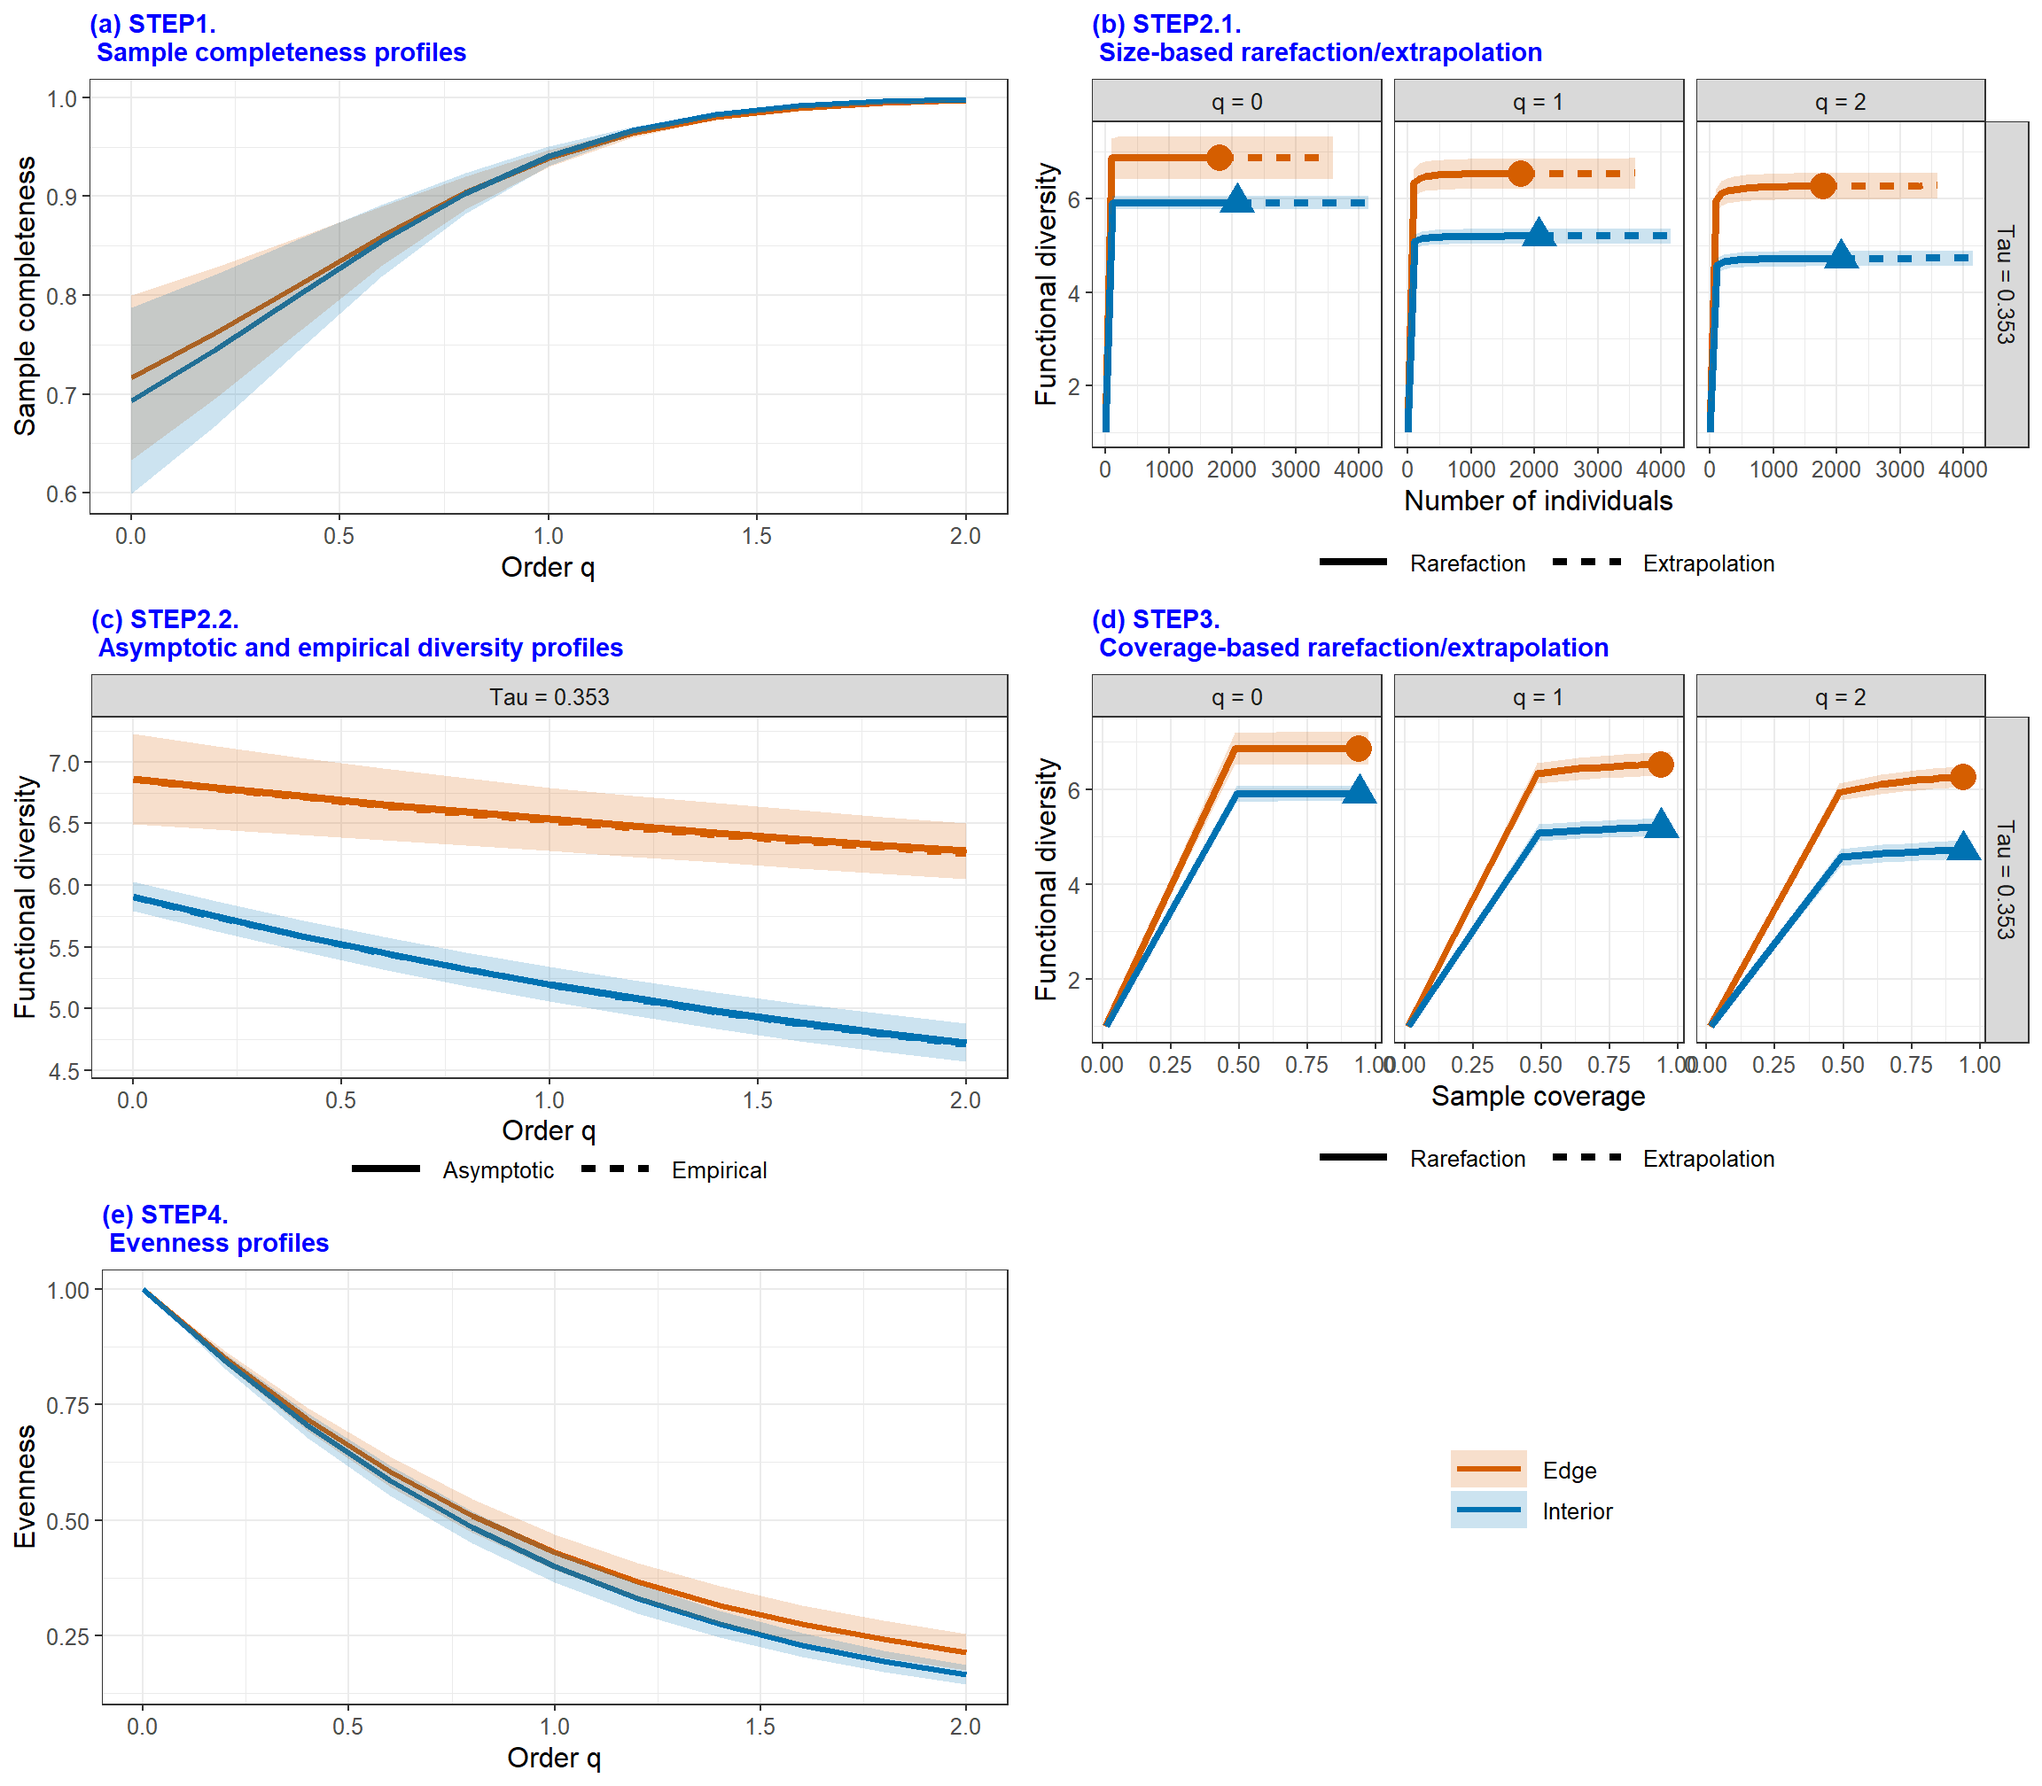
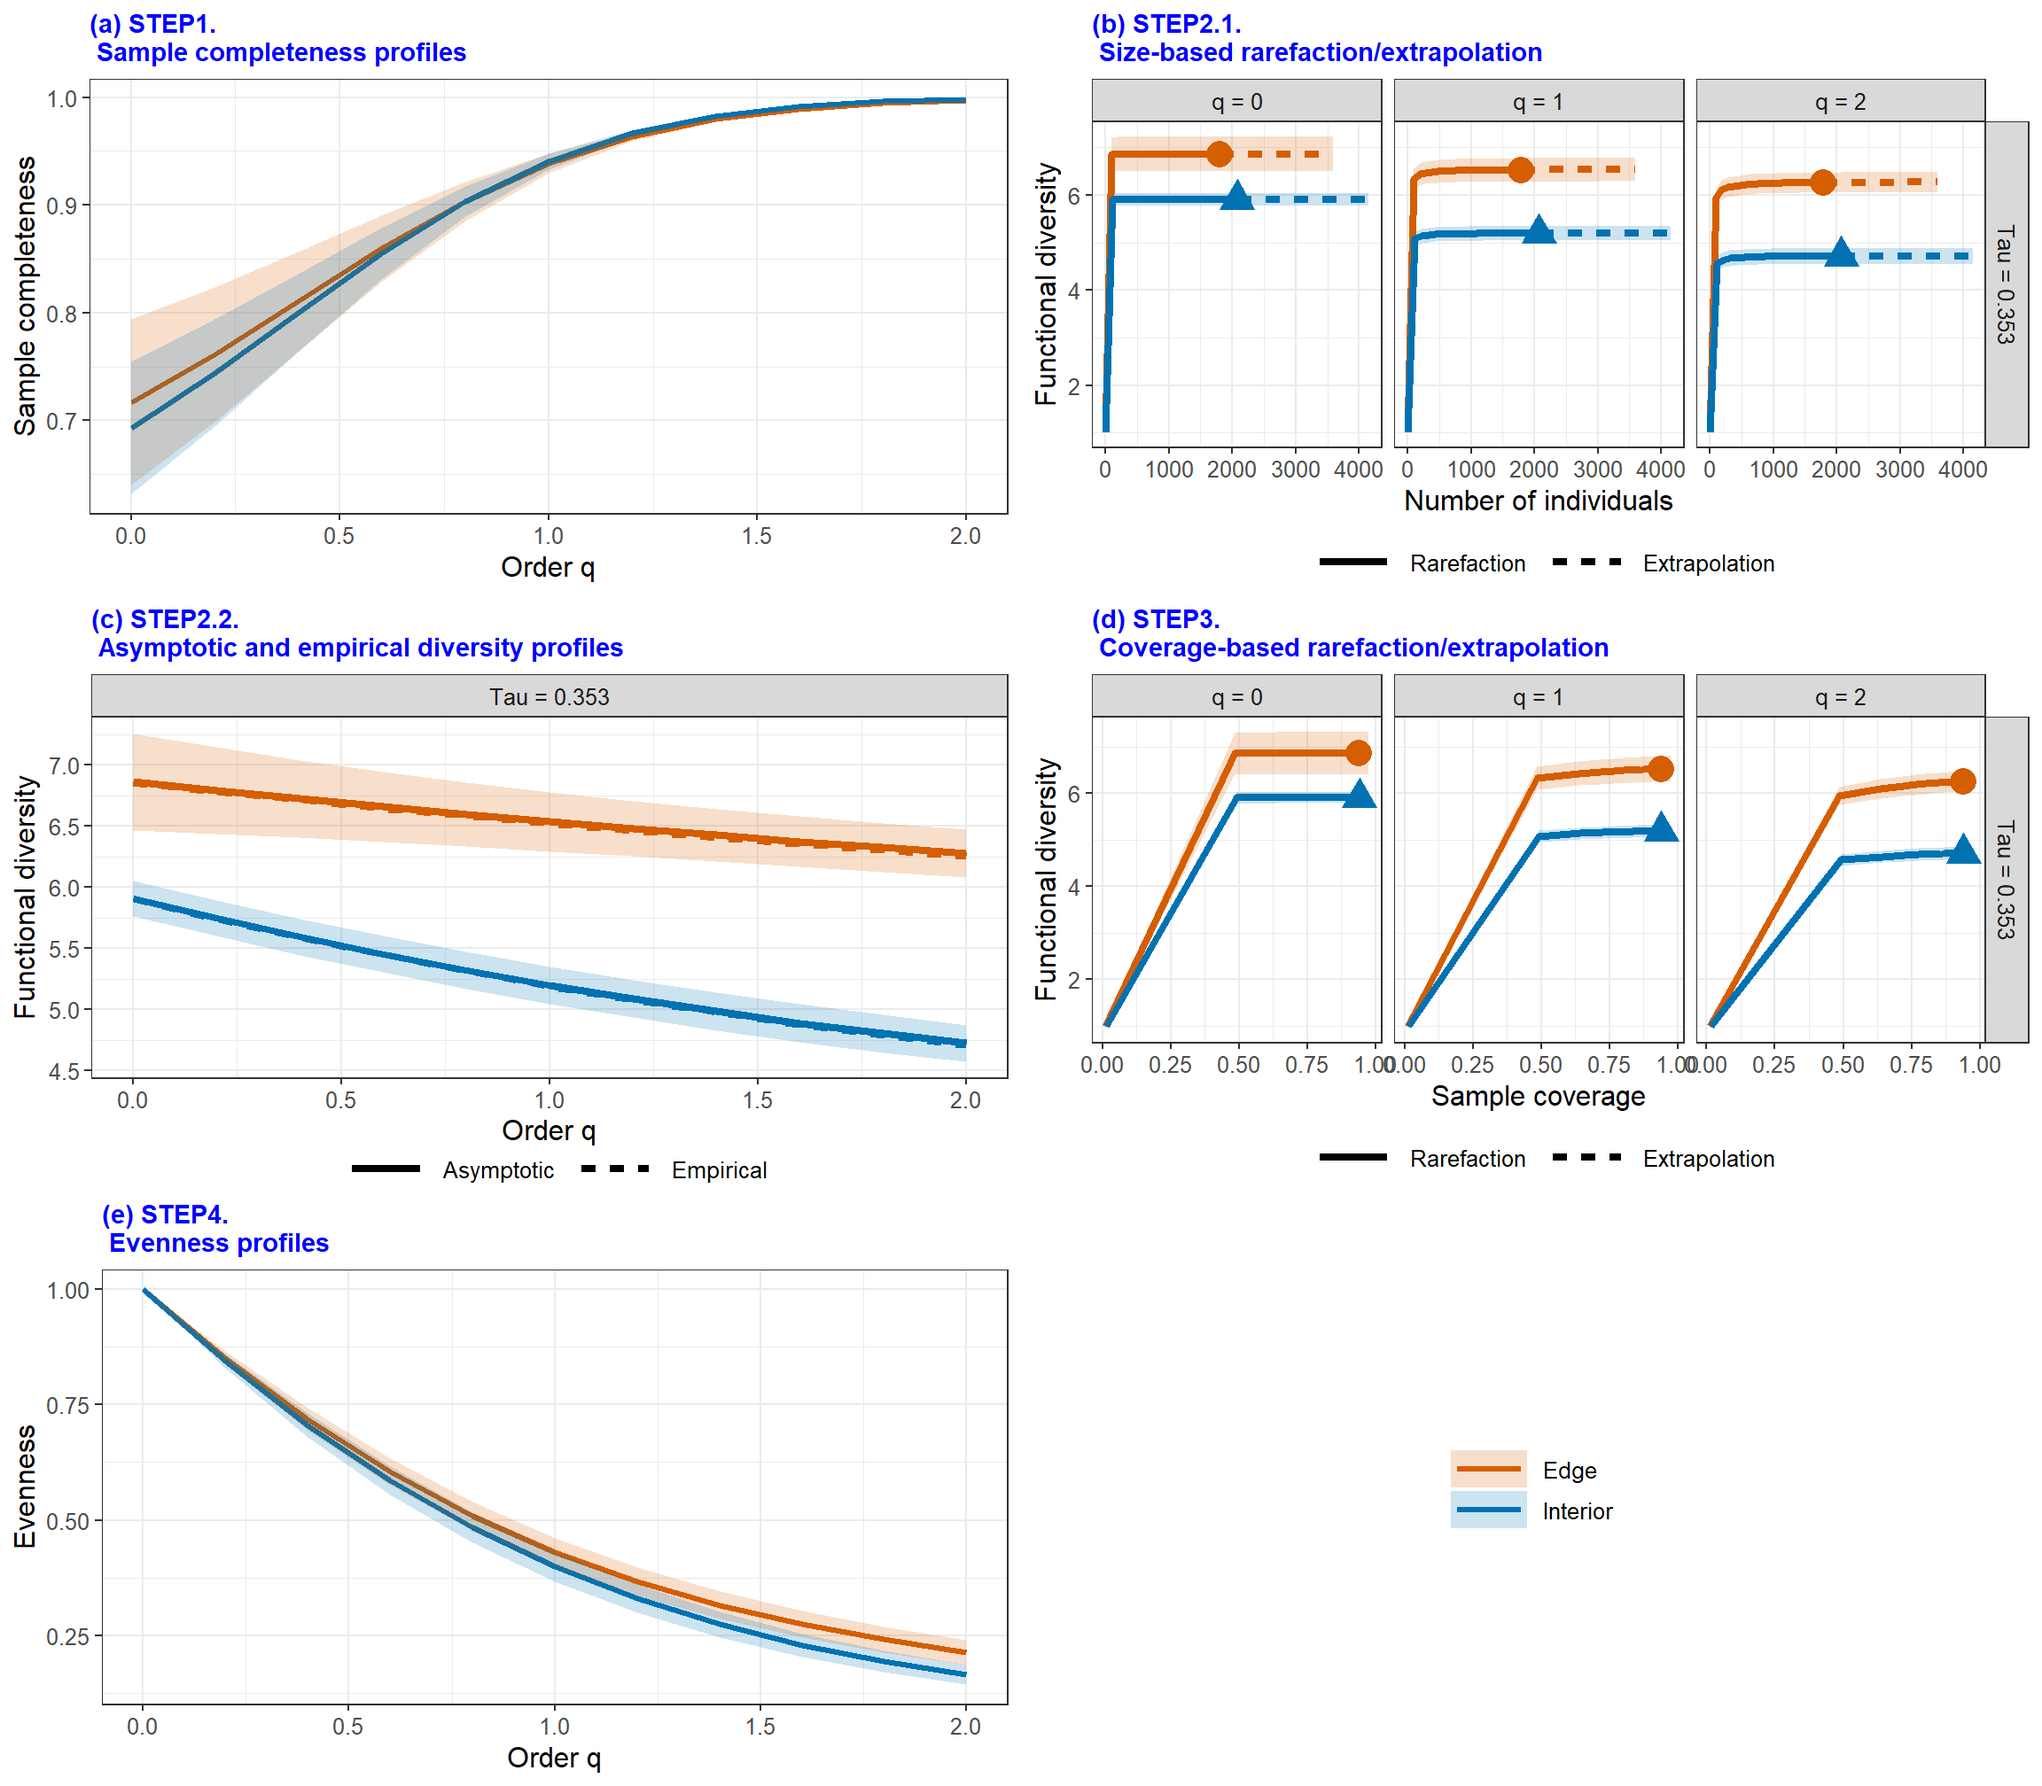
Update README.

diff --git a/README.md b/README.md
@@ -229,11 +229,11 @@ data
 1.  For `datatype = 'abundance'`, data can be input as a vector of
     species abundances (for a single assemblage), matrix/data.frame
     (species by assemblages), or a list of species abundance
-    vectors. (b) For `datatype = 'incidence_freq'`, data can be input as
+    vectors. (2) For `datatype = 'incidence_freq'`, data can be input as
     a vector of incidence frequencies (for a single assemblage),
     matrix/data.frame (species by assemblages), or a list of incidence
     frequencies; the first entry in all types of input must be the
-    number of sampling units in each assemblage. (c) For
+    number of sampling units in each assemblage. (3) For
     `datatype = 'incidence_raw'`, data can be input as a list of
     matrix/data.frame (species by sampling units); data can also be
     input as a matrix/data.frame by merging all sampling units across
@@ -438,12 +438,12 @@ $`STEP1. Sample completeness profiles`
 
 $`STEP2. Asymptotic analysis`
   Assemblage         Diversity Observed Estimator  s.e.   LCL    UCL
-1     Closed  Species richness    44.00     72.11 27.57 44.00 126.15
-2     Closed Shannon diversity    10.04     10.30  0.37  9.57  11.03
-3     Closed Simpson diversity     5.71      5.73  0.24  5.26   6.19
-4       Open  Species richness    74.00     96.31 13.01 74.00 121.81
-5       Open Shannon diversity    16.34     16.84  0.49 15.87  17.81
-6       Open Simpson diversity     9.41      9.46  0.30  8.87  10.05
+1     Closed  Species richness    44.00     72.11 32.45 44.00 135.71
+2     Closed Shannon diversity    10.04     10.30  0.45  9.42  11.18
+3     Closed Simpson diversity     5.71      5.73  0.29  5.16   6.30
+4       Open  Species richness    74.00     96.31 10.47 75.78 116.84
+5       Open Shannon diversity    16.34     16.84  0.40 16.06  17.62
+6       Open Simpson diversity     9.41      9.46  0.28  8.90  10.01
 
 $`STEP3. Non-asymptotic coverage-based rarefaction and extrapolation analysis`
   Cmax = 0.994 q = 0 q = 1 q = 2
@@ -512,12 +512,12 @@ $`STEP1. Sample completeness profiles`
 
 $`STEP2. Asymptotic analysis`
    Assemblage         Diversity Observed Estimator  s.e.    LCL    UCL
-1     Monsoon  Species richness   329.00    421.67 25.49 371.71 471.64
-2     Monsoon Shannon diversity   145.65    150.15  1.81 146.60 153.70
-3     Monsoon Simpson diversity   102.33    103.35  1.17 101.06 105.64
-4 Upper_cloud  Species richness   239.00    307.78 18.08 272.34 343.22
-5 Upper_cloud Shannon diversity   105.53    110.50  1.73 107.11 113.89
-6 Upper_cloud Simpson diversity    71.17     72.23  1.17  69.93  74.52
+1     Monsoon  Species richness   329.00    421.67 23.80 375.02 468.33
+2     Monsoon Shannon diversity   145.65    150.15  1.55 147.12 153.18
+3     Monsoon Simpson diversity   102.33    103.35  1.04 101.31 105.39
+4 Upper_cloud  Species richness   239.00    307.78 17.84 272.81 342.75
+5 Upper_cloud Shannon diversity   105.53    110.50  1.69 107.19 113.81
+6 Upper_cloud Simpson diversity    71.17     72.23  1.18  69.90  74.55
 
 $`STEP3. Non-asymptotic coverage-based rarefaction and extrapolation analysis`
   Cmax = 0.993  q = 0  q = 1  q = 2
@@ -566,12 +566,12 @@ $`STEP1. Sample completeness profiles`
 
 $`STEP2. Asymptotic analysis`
   Assemblage Phylogenetic.Diversity Phylogenetic.Observed Phylogenetic.Estimator s.e.   LCL   UCL Reftime   Type
-1       Edge               q = 0 PD                 61.29                  80.03 3.79 72.60 87.46     400 meanPD
-2       Edge               q = 1 PD                  5.25                   5.37 0.14  5.09  5.65     400 meanPD
-3       Edge               q = 2 PD                  1.80                   1.80 0.03  1.74  1.86     400 meanPD
-4   Interior               q = 0 PD                 69.32                  86.38 4.39 77.77 94.98     400 meanPD
-5   Interior               q = 1 PD                  5.72                   5.85 0.12  5.62  6.08     400 meanPD
-6   Interior               q = 2 PD                  1.91                   1.91 0.02  1.87  1.96     400 meanPD
+1       Edge               q = 0 PD                 61.29                  80.03 5.22 69.80 90.25     400 meanPD
+2       Edge               q = 1 PD                  5.25                   5.37 0.12  5.13  5.62     400 meanPD
+3       Edge               q = 2 PD                  1.80                   1.80 0.03  1.74  1.85     400 meanPD
+4   Interior               q = 0 PD                 69.32                  86.38 5.04 76.49 96.26     400 meanPD
+5   Interior               q = 1 PD                  5.72                   5.85 0.14  5.58  6.13     400 meanPD
+6   Interior               q = 2 PD                  1.91                   1.91 0.04  1.84  1.99     400 meanPD
 
 $`STEP3. Non-asymptotic coverage-based rarefaction and extrapolation analysis`
   Cmax = 0.973 q = 0 q = 1 q = 2
@@ -615,12 +615,12 @@ $`STEP1. Sample completeness profiles`
 
 $`STEP2. Asymptotic analysis`
   Assemblage Functional.Diversity Functional.Observed Functional.Estimator s.e.  LCL  UCL  Tau
-1       Edge q = 0 FD(single tau)                6.86                 6.86 0.19 6.86 7.24 0.35
-2       Edge q = 1 FD(single tau)                6.52                 6.54 0.12 6.30 6.78 0.35
-3       Edge q = 2 FD(single tau)                6.26                 6.28 0.10 6.08 6.47 0.35
+1       Edge q = 0 FD(single tau)                6.86                 6.86 0.20 6.86 7.26 0.35
+2       Edge q = 1 FD(single tau)                6.52                 6.54 0.14 6.26 6.82 0.35
+3       Edge q = 2 FD(single tau)                6.26                 6.28 0.12 6.04 6.51 0.35
 4   Interior q = 0 FD(single tau)                5.91                 5.91 0.06 5.91 6.03 0.35
-5   Interior q = 1 FD(single tau)                5.19                 5.20 0.07 5.05 5.34 0.35
-6   Interior q = 2 FD(single tau)                4.72                 4.72 0.08 4.57 4.88 0.35
+5   Interior q = 1 FD(single tau)                5.19                 5.20 0.09 5.03 5.37 0.35
+6   Interior q = 2 FD(single tau)                4.72                 4.72 0.10 4.53 4.92 0.35
 
 $`STEP3. Non-asymptotic coverage-based rarefaction and extrapolation analysis`
   Cmax = 0.973 q = 0 q = 1 q = 2
